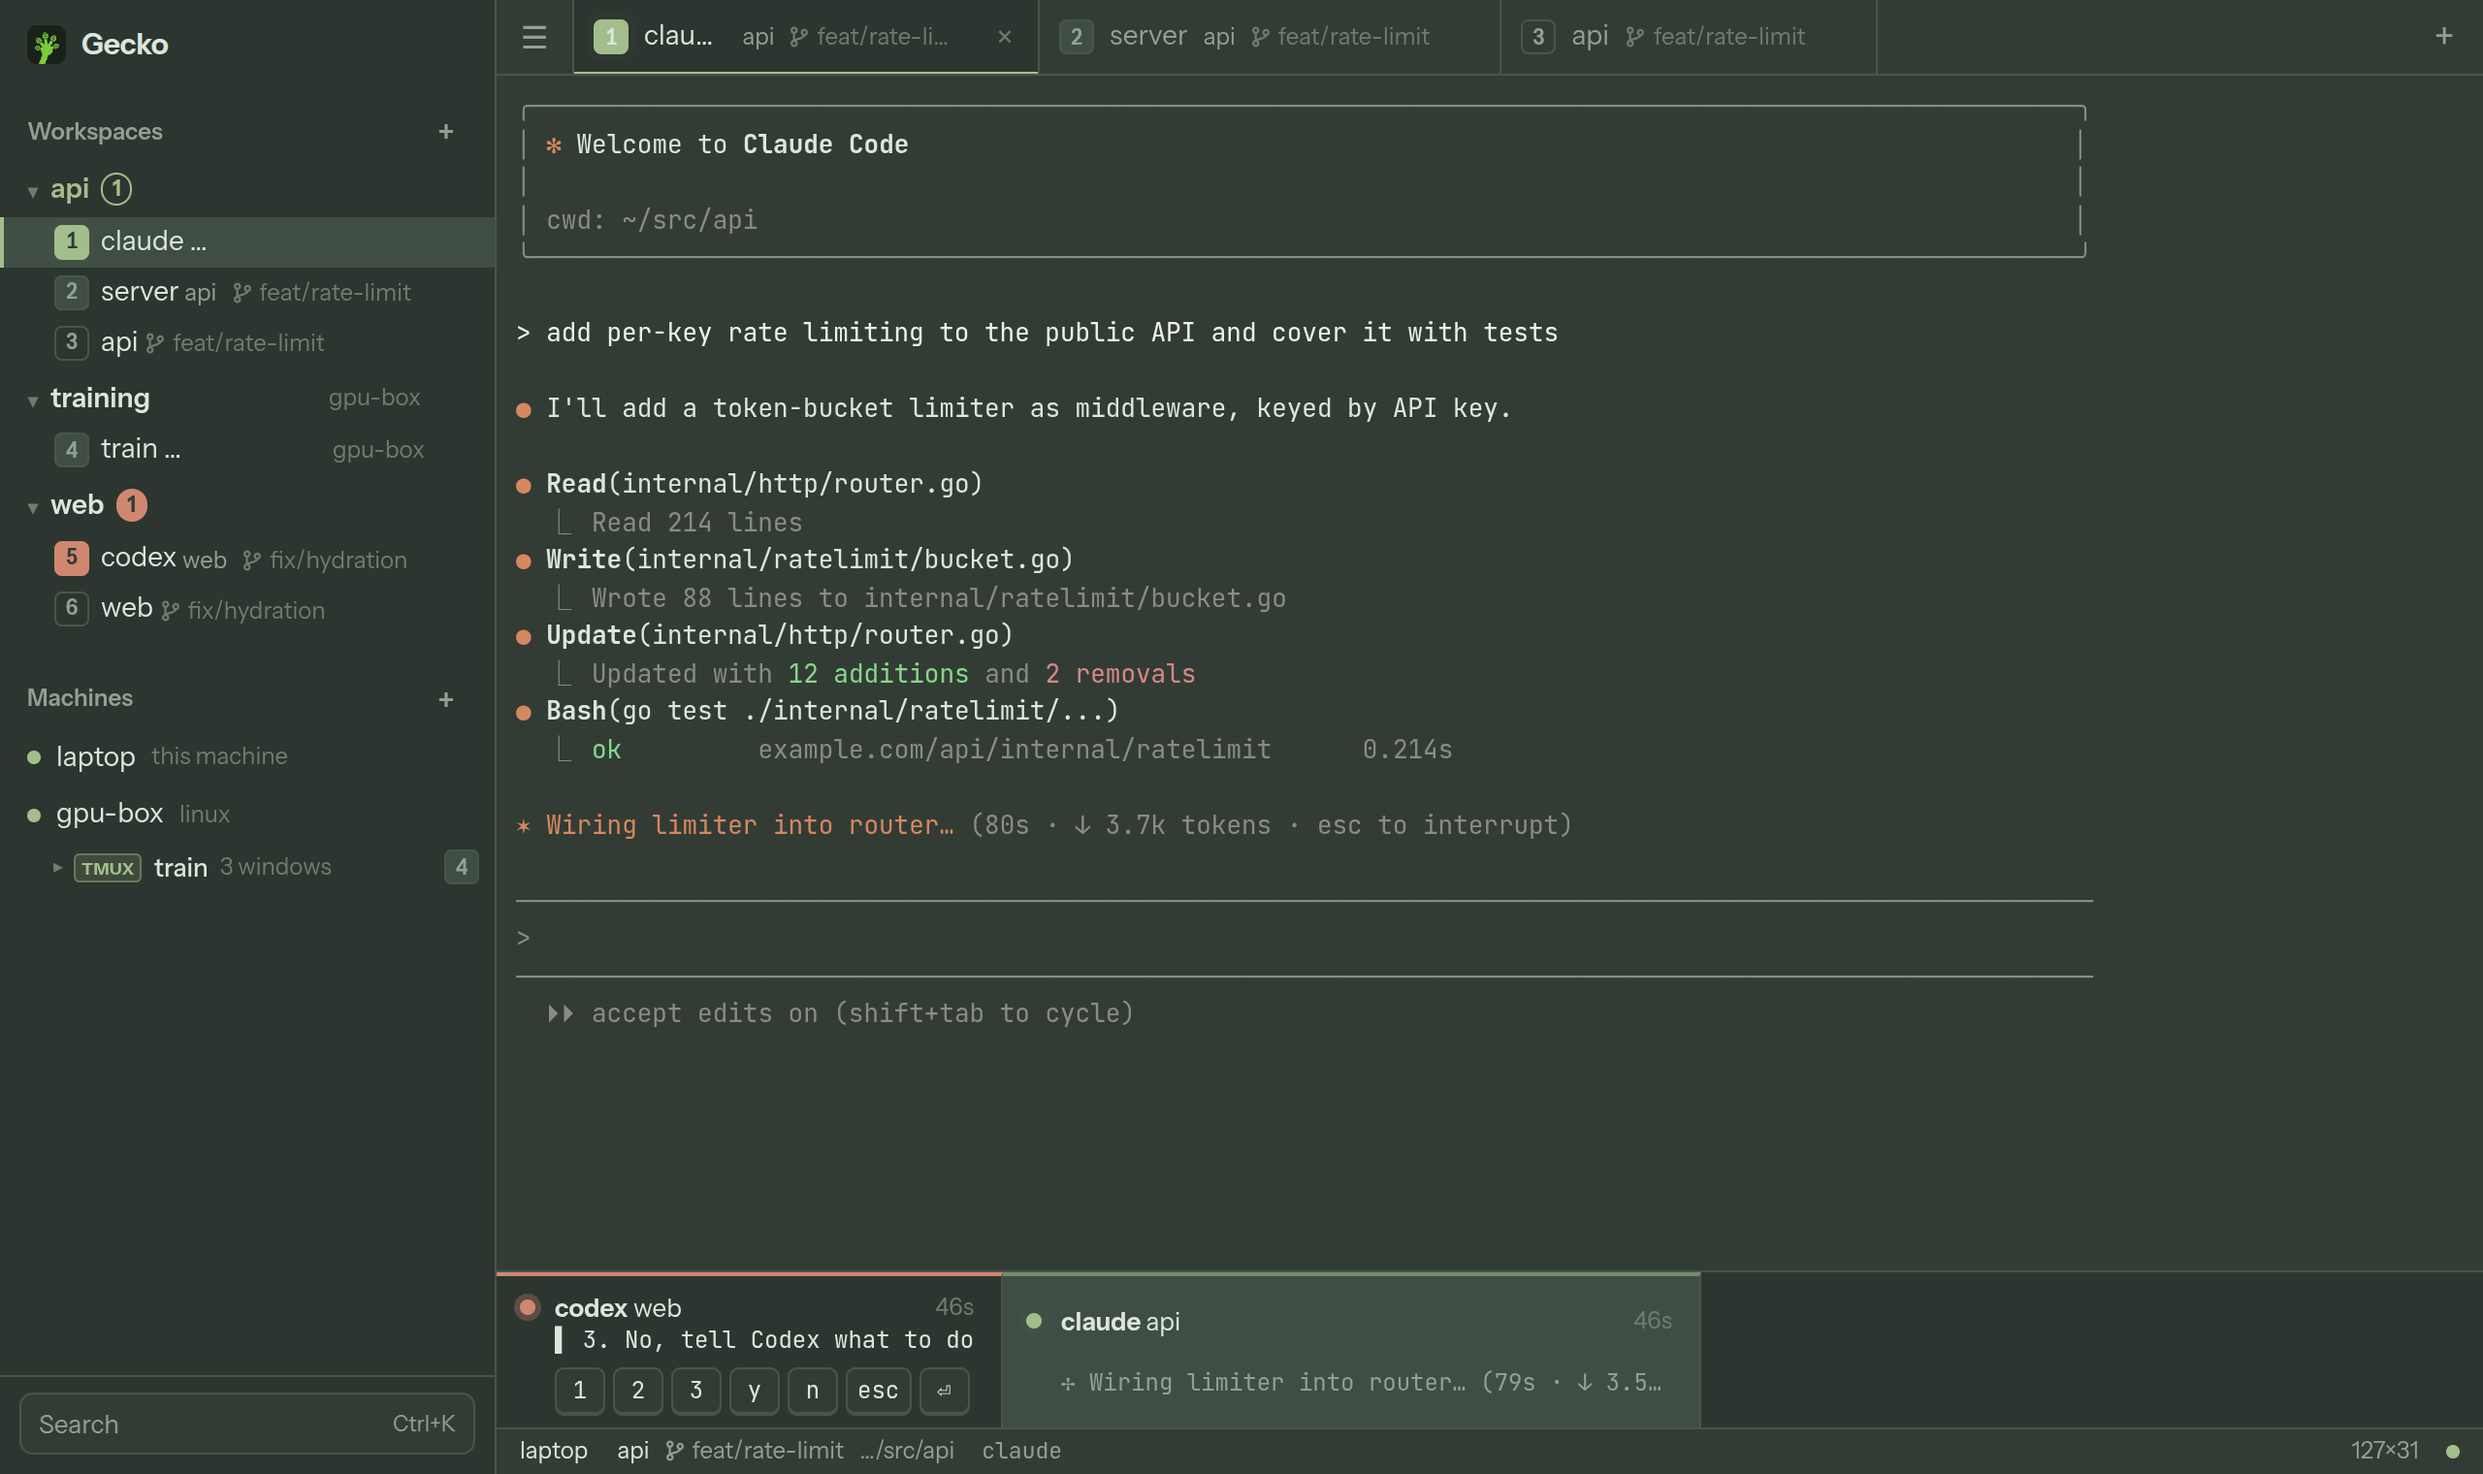
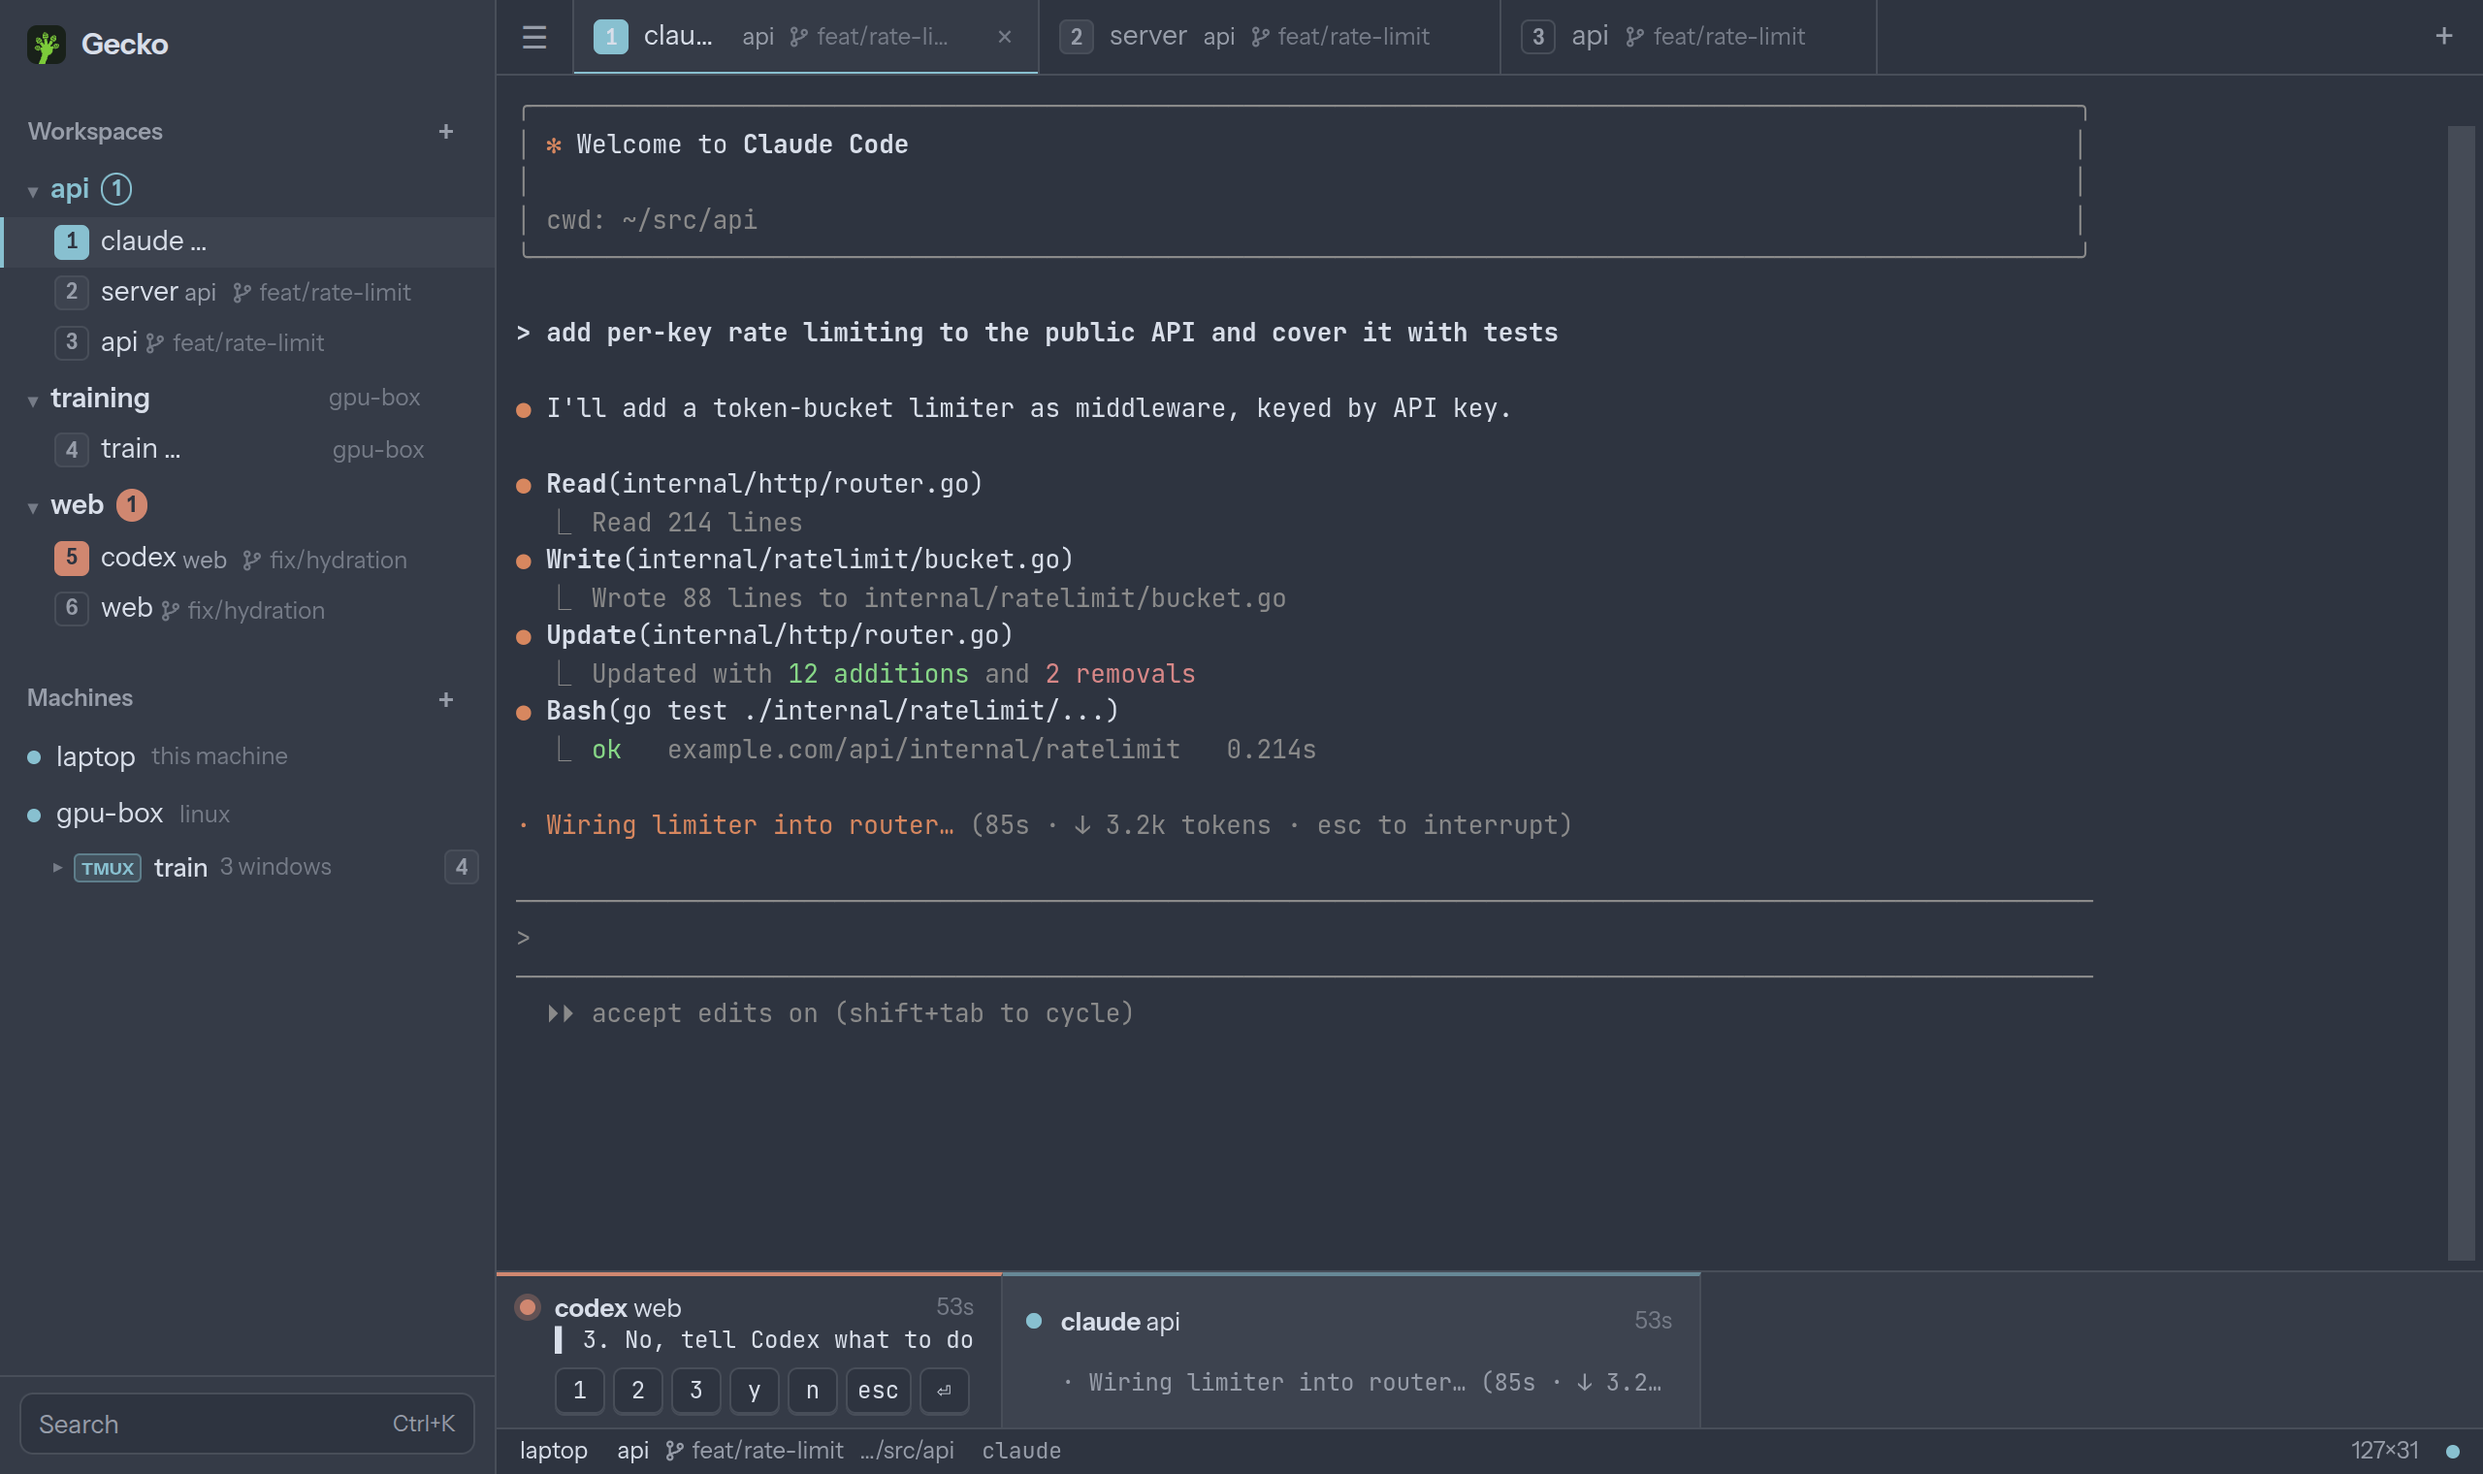
README: show the Nord theme in the screenshot

diff --git a/README.md b/README.md
@@ -28,7 +28,7 @@
 </p>
 
 <p align="center">
-  <img src="docs/img/hero.png" alt="Gecko with workspaces on two machines, Claude Code working and Codex waiting for approval in the agent dock">
+  <img src="docs/img/hero.png" alt="Gecko in the Nord theme with workspaces on two machines, Claude Code working and Codex waiting for approval in the agent dock">
 </p>
 
 ```sh
